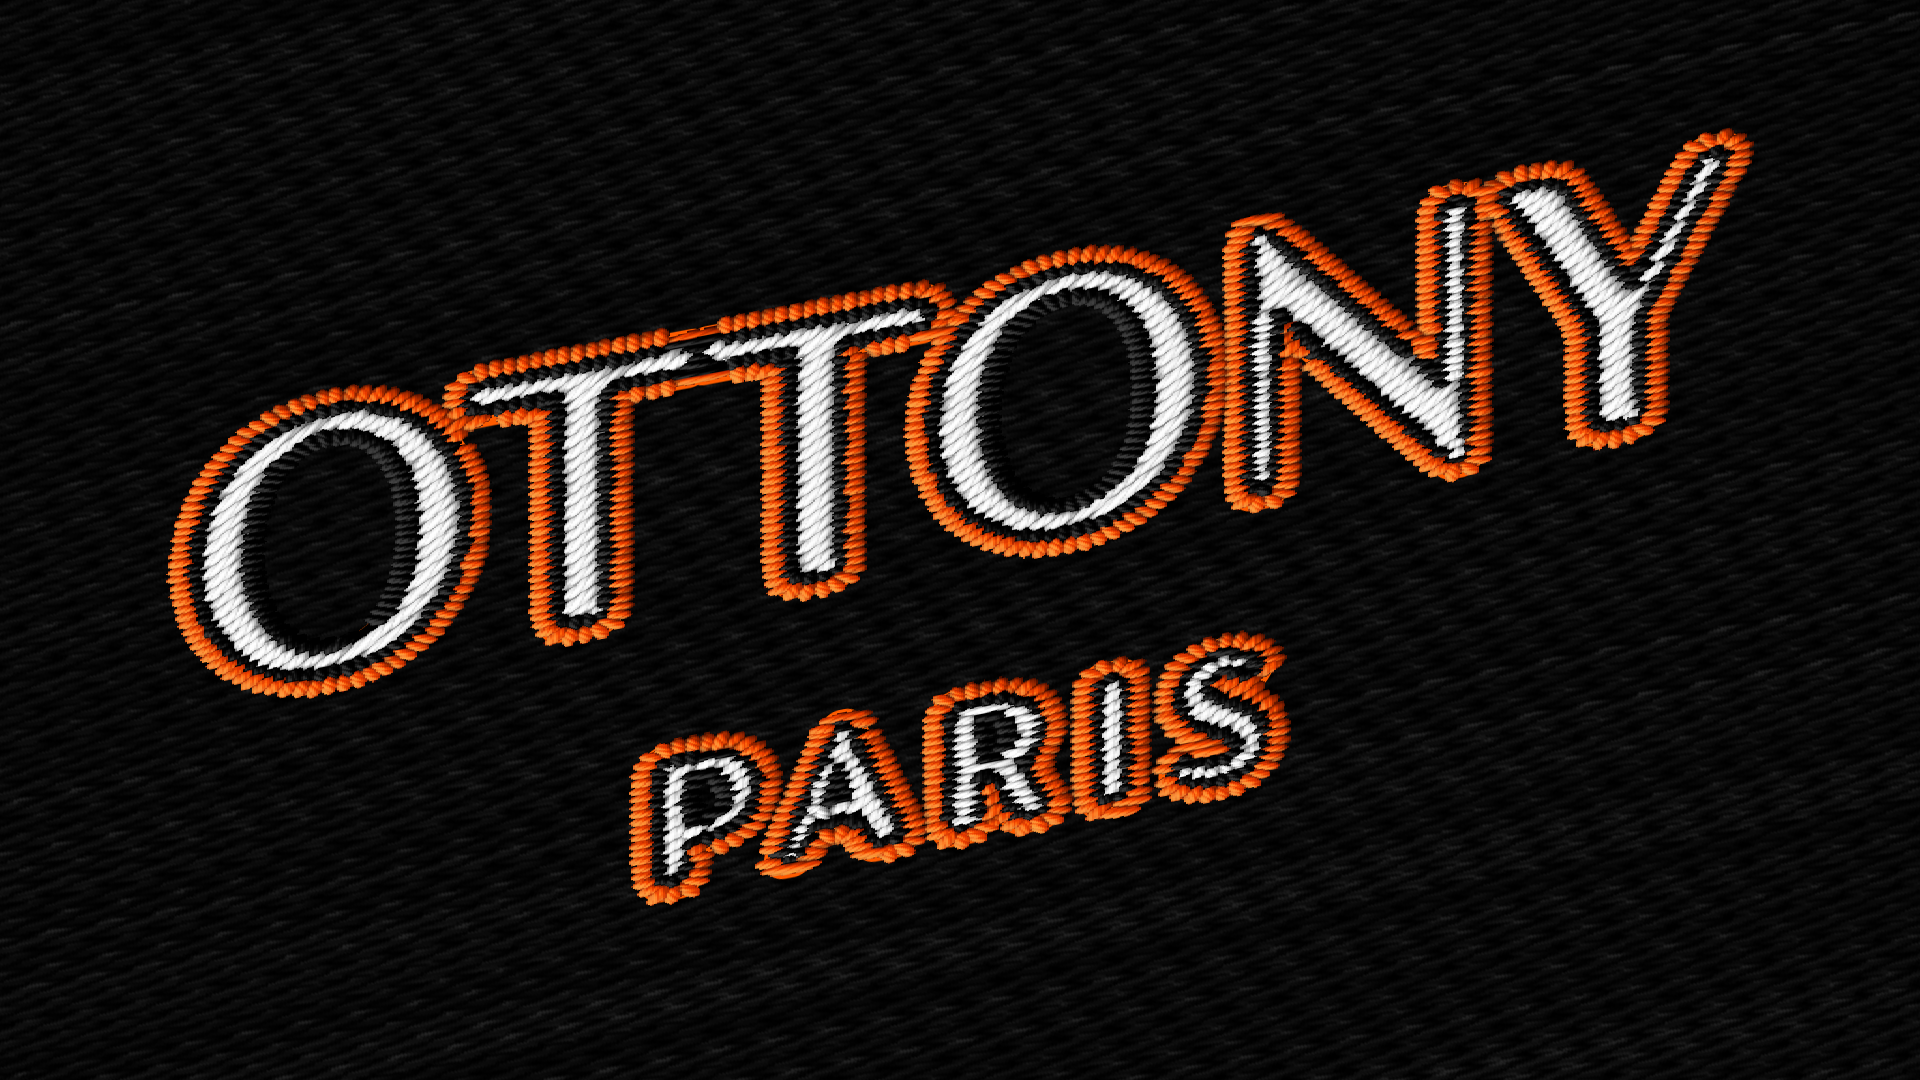
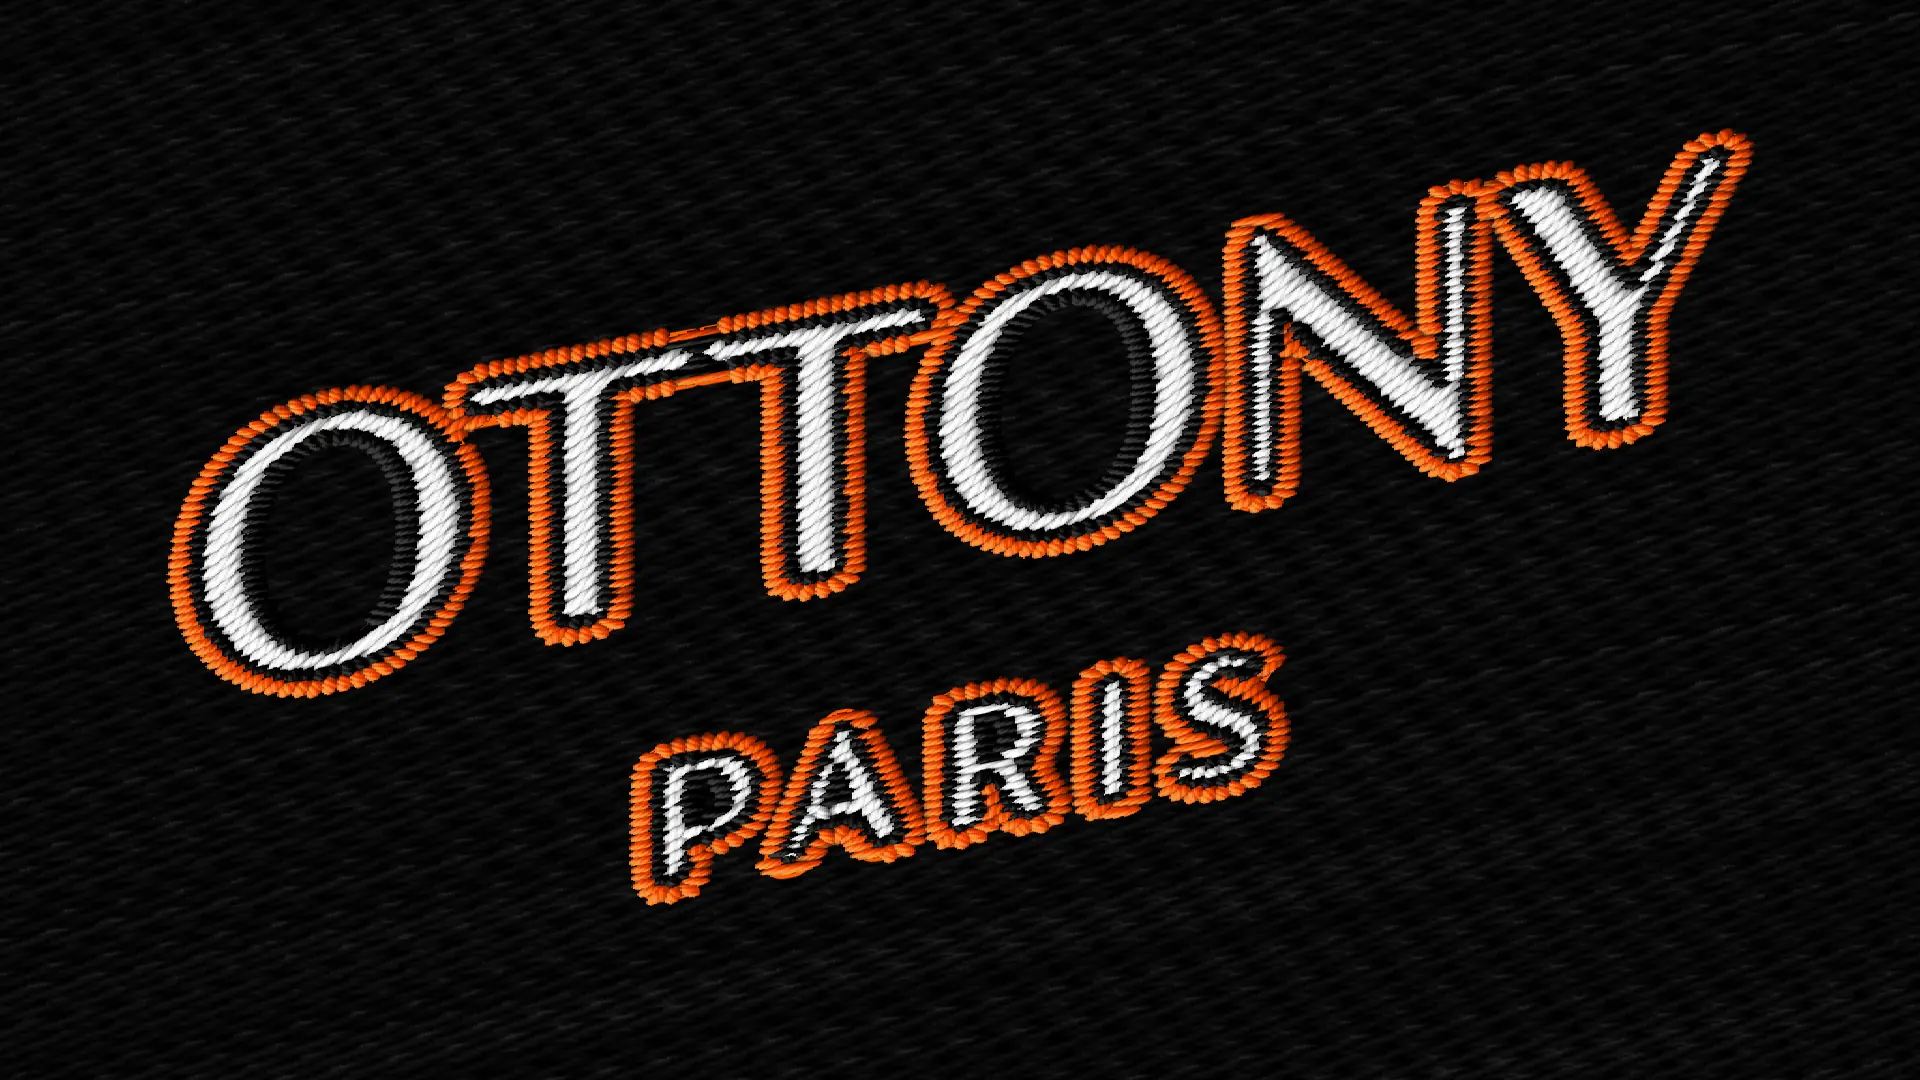
design: Update project images to WebP format for better performance and quality

diff --git a/DESIGN.md b/DESIGN.md
@@ -1,0 +1,29 @@
+---
+name: "Ropat"
+colors:
+  primary: "#FFFFFF"
+  secondary: "#9ca3af"
+  accent: "#FF5C00"
+  neutral: "#000000"
+typography:
+  fontFamily: "Space Grotesk, sans-serif"
+  h1:
+    fontSize: "3rem"
+    fontWeight: "700"
+  body:
+    fontSize: "1rem"
+    fontWeight: "400"
+spacing:
+  padding: "1rem"
+  margin: "1rem"
+rounded:
+  small: "0.25rem"
+  medium: "0.5rem"
+  large: "1rem"
+---
+
+# Directives d'identité visuelle
+
+L'interface doit évoquer un style créatif, original et digital-native. Elle doit refléter l'identité de Ropat en tant que designer.
+
+## Utilisation des couleurs